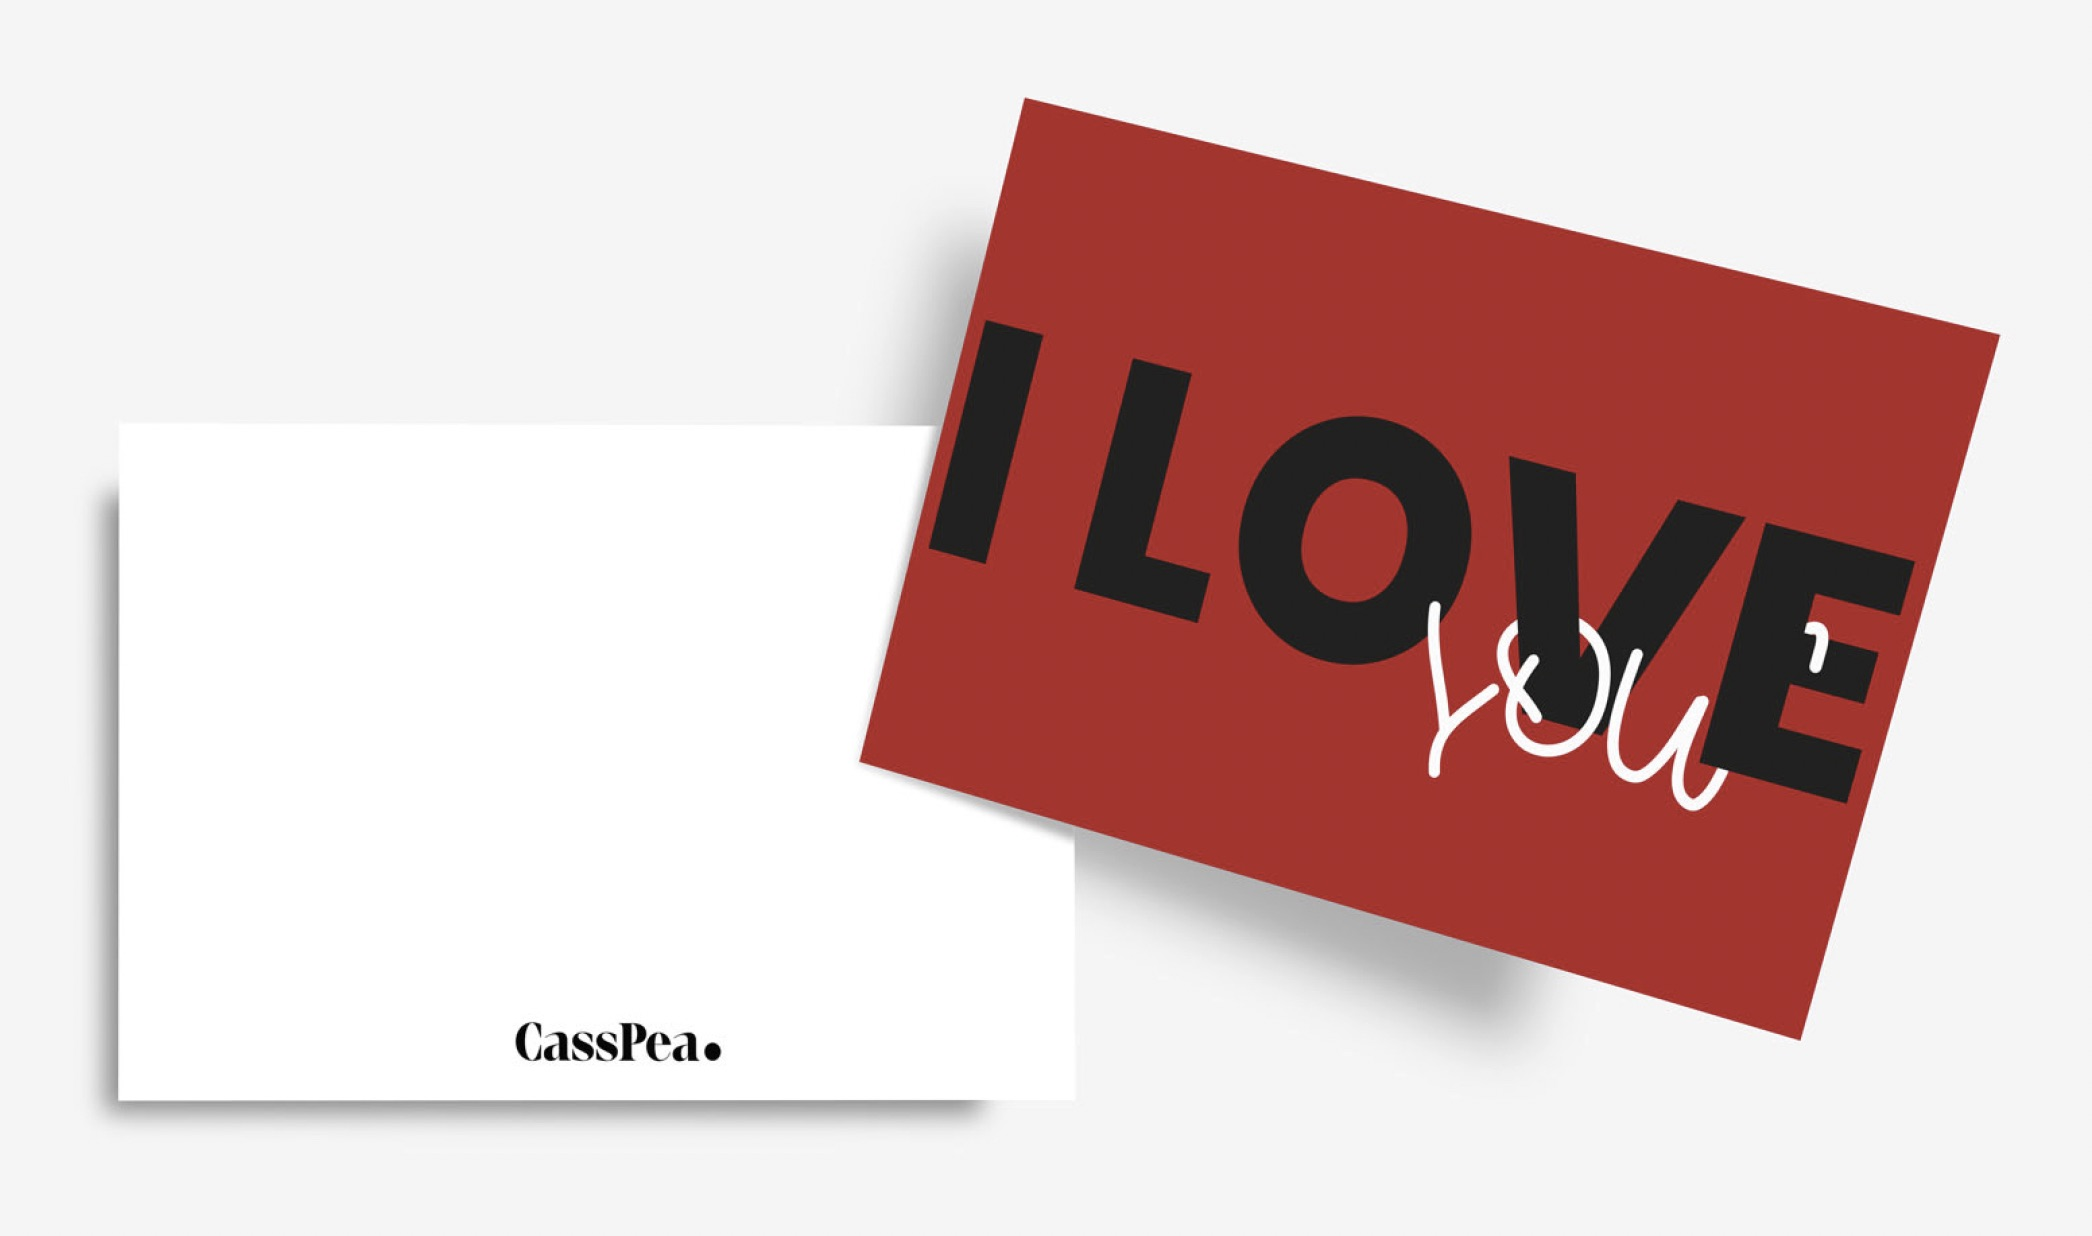
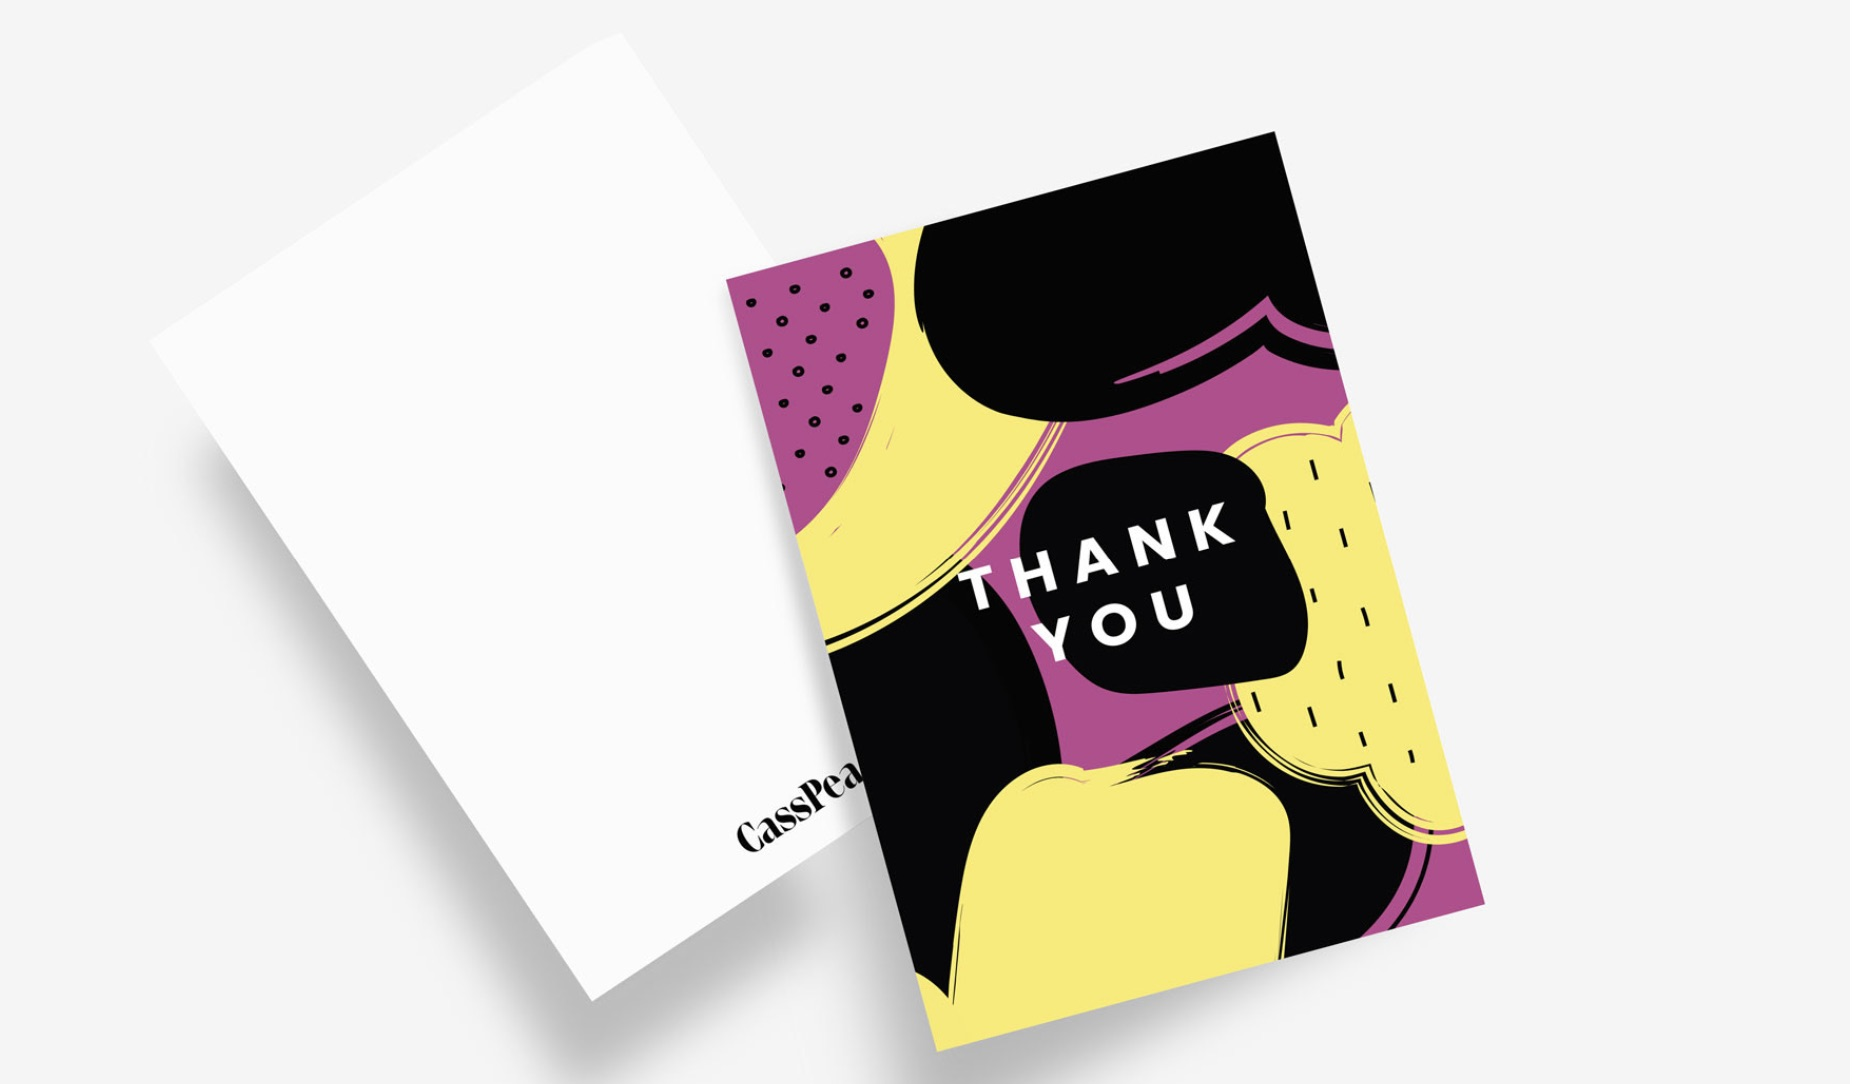
Feat - Gift Card Images

diff --git a/app/checkout/gift-card/page.tsx b/app/checkout/gift-card/page.tsx
@@ -27,10 +27,10 @@ const GiftCardPage = () => {
     }, [cart]);
 
     const giftCardOptions = [
-        { id: '137', name: 'Thank You', image: '/gift-cards/i-love-you.jpeg' },
+        { id: '137', name: 'Thank You', image: '/gift-cards/thank-you.jpeg' },
         { id: '106', name: 'Happy Birthday', image: '/gift-cards/happy-birthday.jpeg', },
         { id: '105', name: 'Congratulations', image: '/gift-cards/congratulations.jpeg' },
-        { id: '104', name: 'I Love You', image: '/gift-cards/thank-you.jpeg' },
+        { id: '104', name: 'I Love You', image: '/gift-cards/love-you.jpeg' },
     ];
 
     const handleAddGiftCard = async () => {
